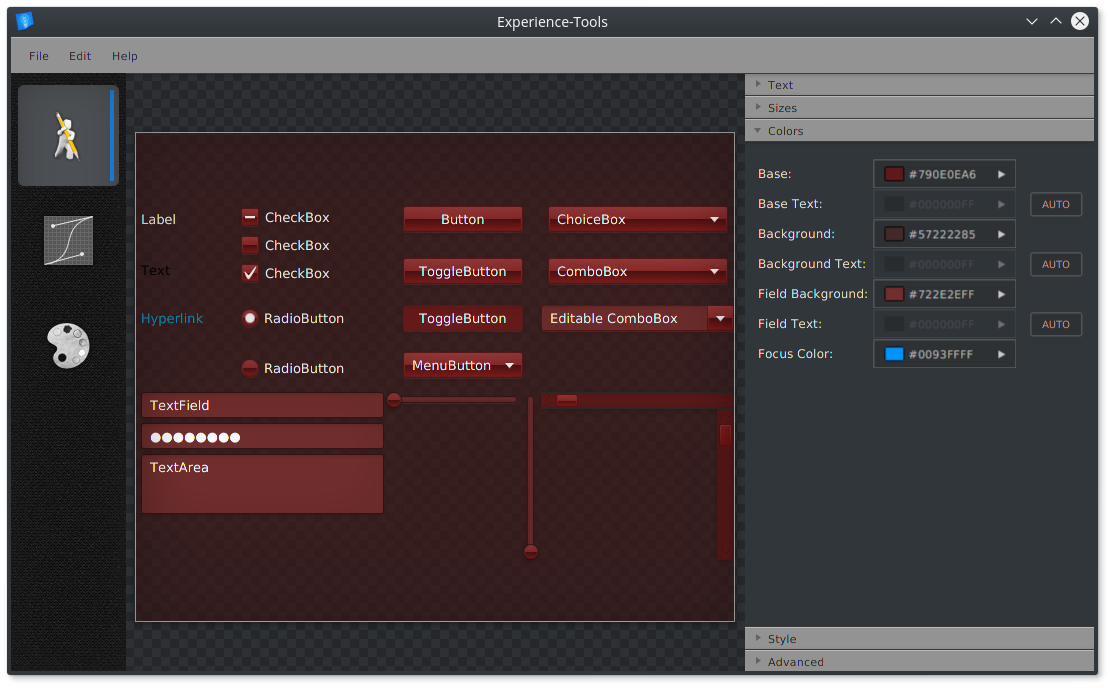
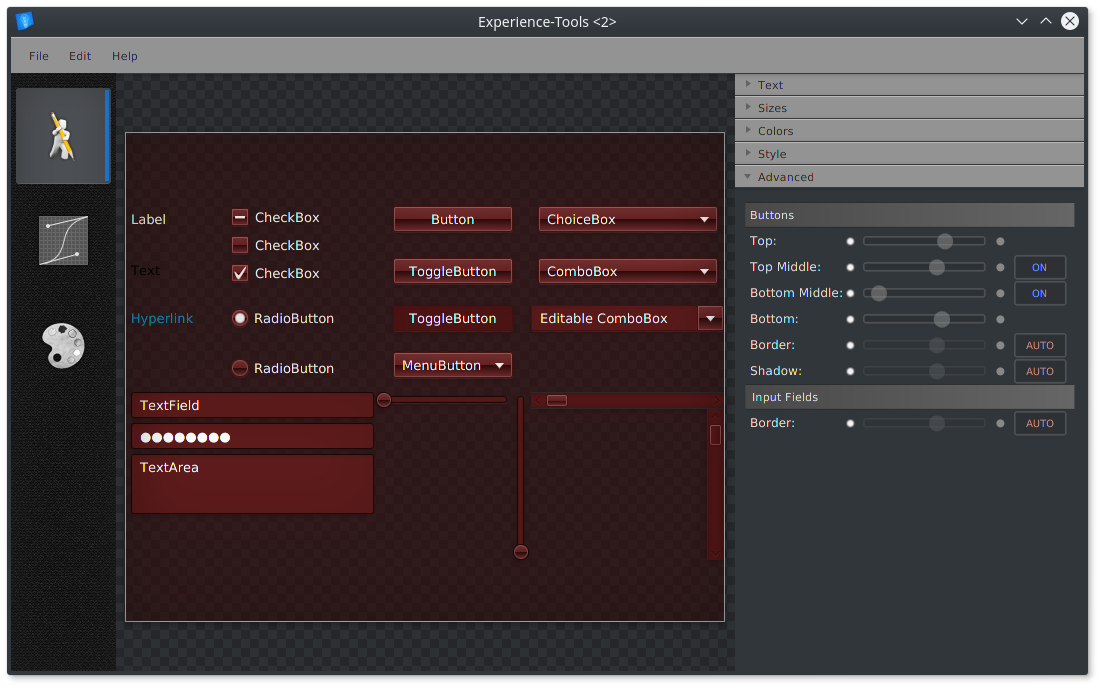
minor

diff --git a/FXExperienceTools/src/main/resources/styles/main.css b/FXExperienceTools/src/main/resources/styles/main.css
@@ -142,9 +142,8 @@ different terms and without source code for the larger work.
     -fx-font-weight: bold;
     -fx-background-color: transparent;
     /*-fx-border-color: -fe-light-border;*/
-     -fx-background-insets: 3.4, 2, 1;
-    -fx-background-radius: 1.2, 2, 3.4;
-    -fx-border-insets: 2, -3, 2, -3;
+    -fx-background-radius: 3.4;
+    -fx-border-insets: 2, 3, 2, 3;
      -fx-border-width: 0 4 0 0;
     /*-fx-effect: dropshadow( three-pass-box , rgba(0,0,0,0.4) , 5, 0.0 , 0 , 1 );*/
 }
@@ -157,8 +156,8 @@ different terms and without source code for the larger work.
             linear-gradient(#99ccff, #99ccff),
             radial-gradient(center 50% -40%, radius 200%, #b8eeff 45%, #80c8ff 50%);*/
 /*    -fx-background-color: #4C4F53;*/
-   -fx-background-insets: 2, -3, 2, -3;
-    -fx-background-radius: 6;
+    -fx-background-radius: 3.4;
+    -fx-border-insets: 2, 3, 2, 3;
     -fx-border-color: #1C82E8;
     -fx-border-width: 0 4 0 0;   
 
@@ -167,8 +166,8 @@ different terms and without source code for the larger work.
     -fx-font-weight: bold;
 /*   -fx-background-color: derive(-fe-dark-body-background, 32%);*/
     /*    -fx-background-color: #0011114D;*/
-     -fx-background-insets: 2, -3, 2, -3;
-    -fx-background-radius: 6;
+    -fx-background-radius: 3.4;
+    -fx-border-insets: 2, 3, 2, 3;
     -fx-border-color: -fe-light-border;
     -fx-border-width: 0 4 0 0;
     
